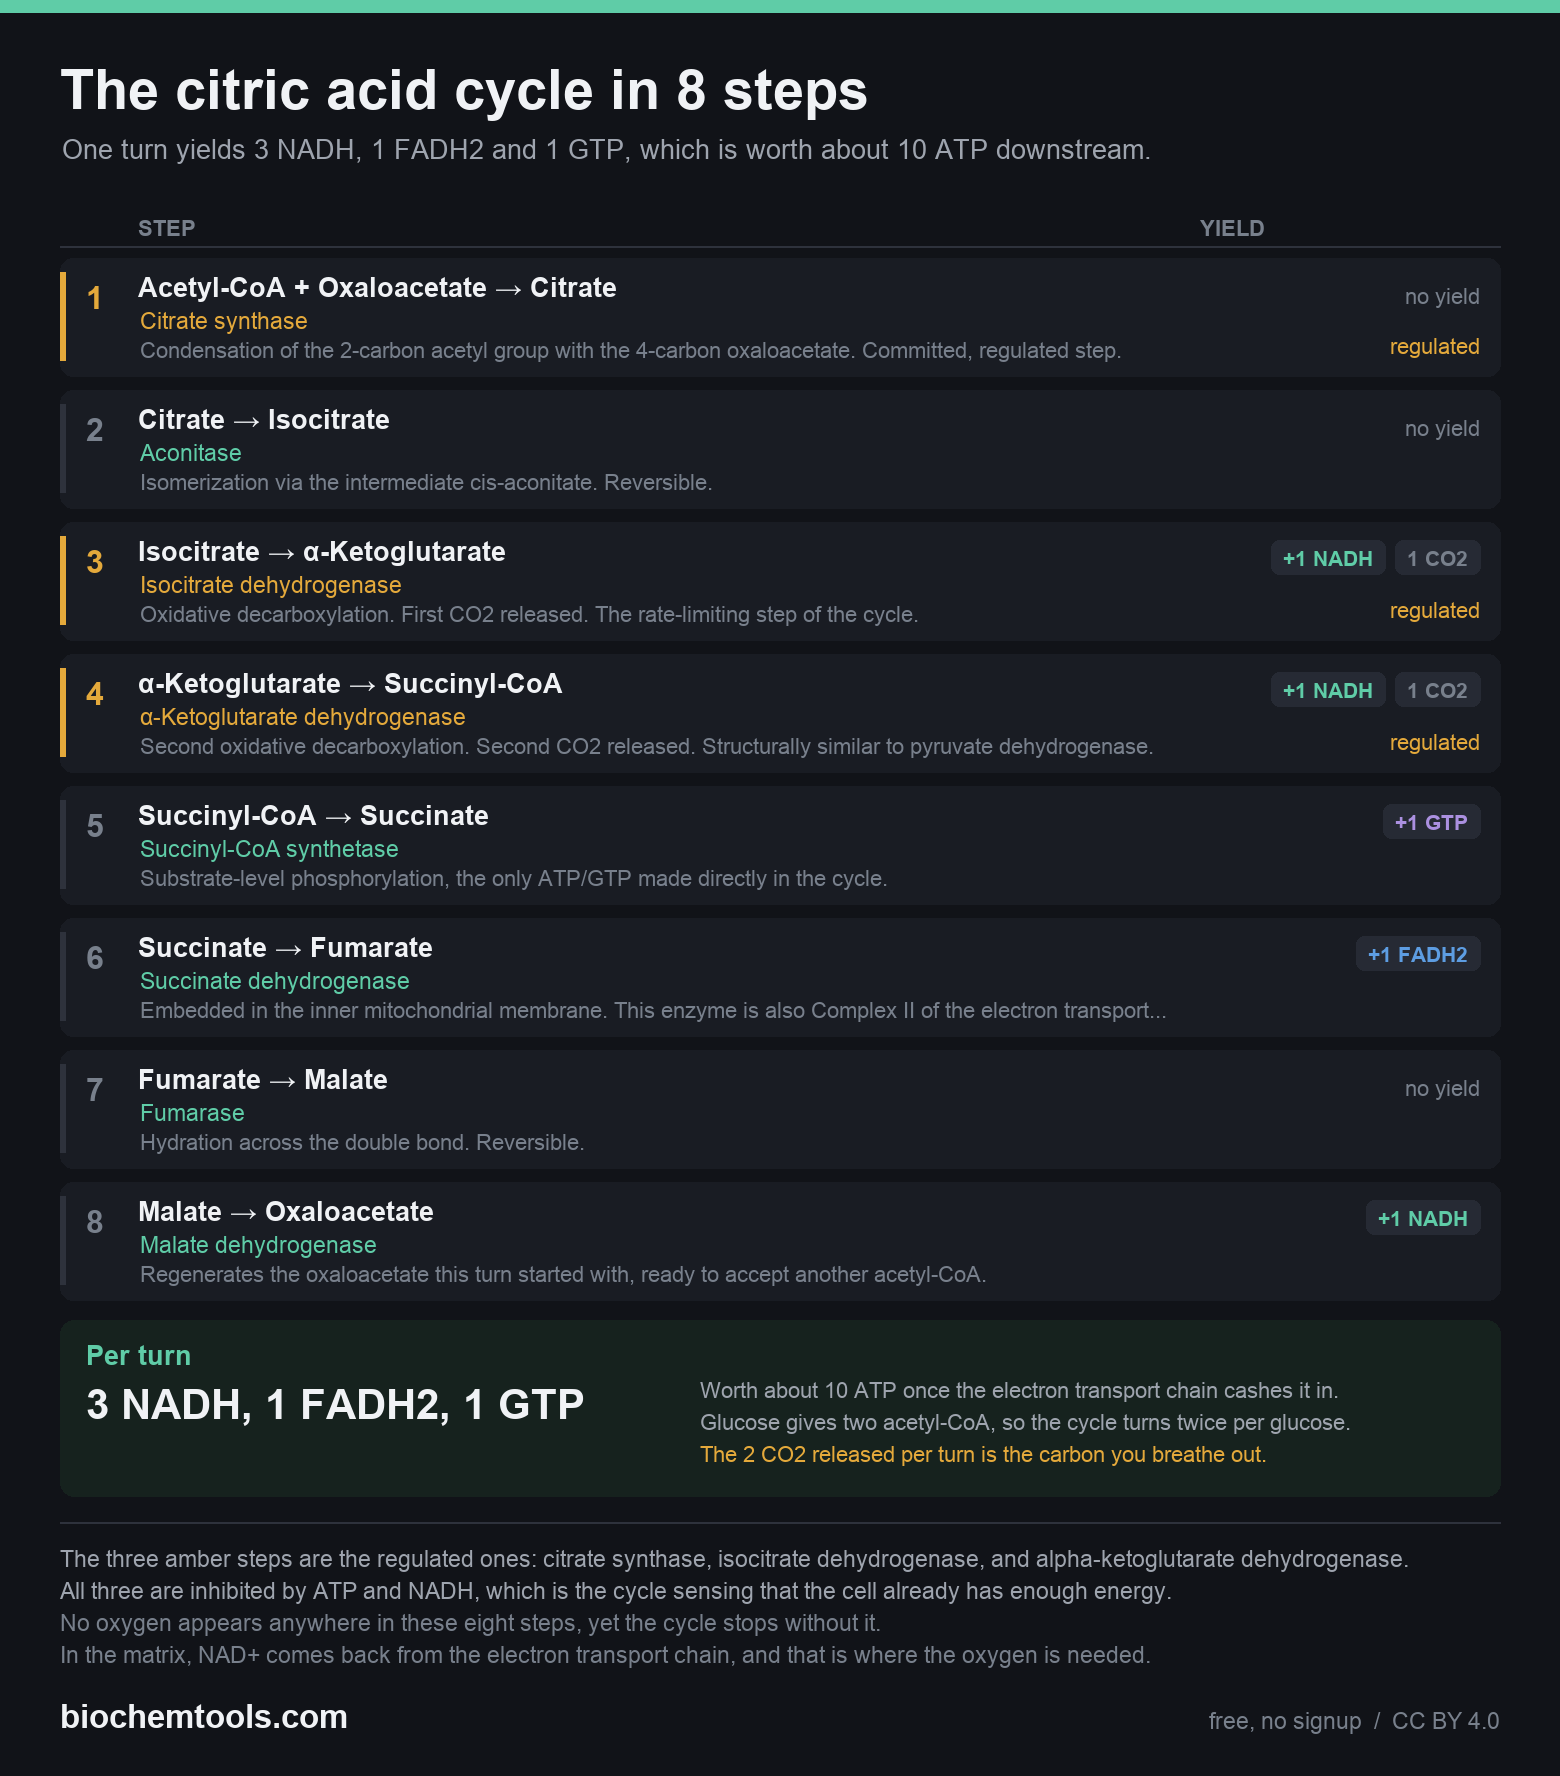
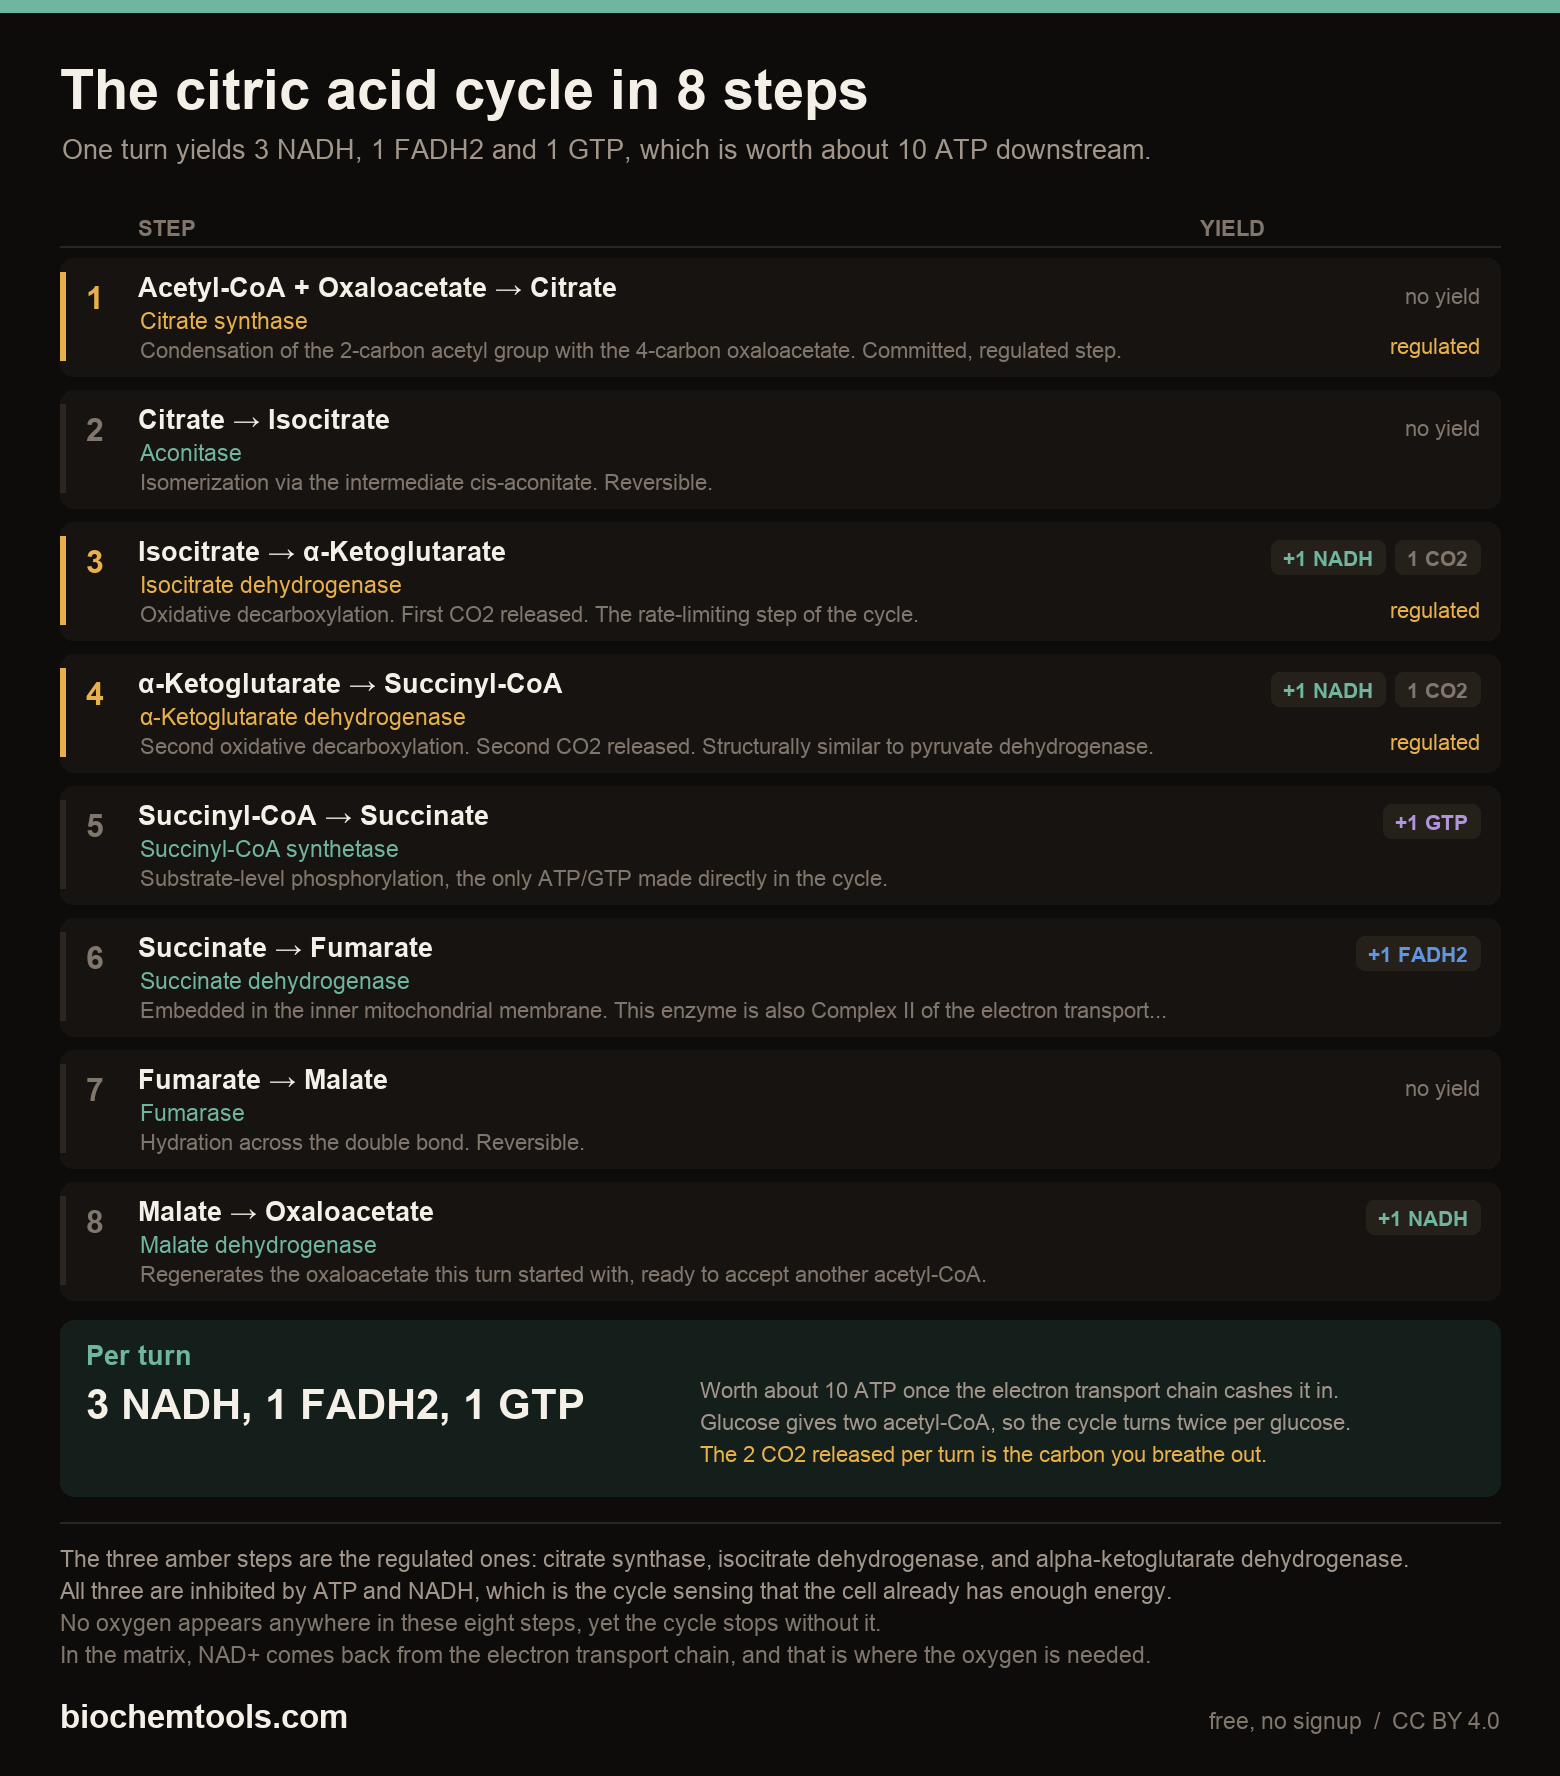
Warm the 12 downloadable charts to match the site
Only the neutrals moved. The hues stay separated because they carry meaning: a
chart that colours acidic and basic side chains alike is broken, not restyled.
Checked every class colour clears 3:1 against the card and that the closest pair
stays apart, which caught teal and blue sitting on the threshold and moved the
blue further out.

Two things did not follow the shared palette and had to be found: the buffer chart
predates lightmode.py and carries its own table, and the amino acid structures are
drawn by RDKit onto their own background, which was still the old card colour and
would have left a visible seam inside every card.

The light print versions are untouched. They were tuned after two readers said the
first pass washed out on paper, and that has nothing to do with the site's colours.

diff --git a/tools/charts/lightmode.py b/tools/charts/lightmode.py
@@ -27,15 +27,18 @@ def theme():
             BAND=(240, 242, 245), CHIP=(225, 229, 236), PANEL=(232, 244, 238),
             WARM=(252, 243, 222),
         )
+    # Warm dark, matched to the site as of 2026-08-24. Only the neutrals moved.
+    # The hues stay separated because they carry meaning: a chart that colours
+    # acidic and basic side chains the same is a broken chart, not a restyled one.
     return False, dict(
-        BG=(17, 19, 24), CARD=(25, 28, 35), LINE=(46, 50, 60),
-        WHITE=(240, 242, 245), GRAY=(158, 164, 174), DIM=(120, 128, 140),
-        GREEN=(95, 204, 167), AMBER=(228, 169, 59), RED=(226, 100, 94),
-        BLUE=(93, 157, 226), PURPLE=(171, 144, 224),
-        NONPOLAR=(140, 149, 170), AROMATIC=(171, 144, 224), POLAR=(95, 204, 167),
-        ACIDIC=(228, 106, 97), BASIC=(93, 157, 226),
-        BAND=(22, 24, 30), CHIP=(38, 42, 52), PANEL=(22, 34, 30),
-        WARM=(30, 28, 22),
+        BG=(14, 12, 10), CARD=(23, 19, 16), LINE=(44, 38, 32),
+        WHITE=(244, 239, 231), GRAY=(162, 150, 138), DIM=(128, 118, 108),
+        GREEN=(111, 181, 159), AMBER=(232, 176, 75), RED=(224, 104, 96),
+        BLUE=(96, 150, 224), PURPLE=(176, 148, 220),
+        NONPOLAR=(150, 142, 130), AROMATIC=(176, 148, 220), POLAR=(111, 181, 159),
+        ACIDIC=(224, 104, 96), BASIC=(96, 150, 224),
+        BAND=(20, 16, 14), CHIP=(38, 32, 27), PANEL=(20, 30, 26),
+        WARM=(32, 26, 18),
     )
 
 

diff --git a/tools/charts/make_buffer_guide.py b/tools/charts/make_buffer_guide.py
@@ -69,12 +69,14 @@ if LIGHT:
     BAND, CHIP = (240, 242, 245), (225, 229, 236)
     BAR_G, BAR_B = (150, 214, 189), (166, 199, 238)
 else:
-    BG, CARD = (17, 19, 24), (25, 28, 35)
-    LINE, WHITE, GRAY, DIM = (46, 50, 60), (240, 242, 245), (158, 164, 174), (120, 128, 140)
-    GREEN, AMBER, BLUE, RED = (95, 204, 167), (228, 169, 59), (93, 157, 226), (226, 100, 94)
-    PURPLE = (171, 144, 224)
-    BAND, CHIP = (22, 24, 30), (38, 42, 52)
-    BAR_G, BAR_B = (28, 52, 45), (38, 46, 56)
+    # Warm dark, matched to the site. Kept in step with lightmode.py by hand
+    # because this chart predates that module and still carries its own table.
+    BG, CARD = (14, 12, 10), (23, 19, 16)
+    LINE, WHITE, GRAY, DIM = (44, 38, 32), (244, 239, 231), (162, 150, 138), (128, 118, 108)
+    GREEN, AMBER, BLUE, RED = (111, 181, 159), (232, 176, 75), (96, 150, 224), (224, 104, 96)
+    PURPLE = (176, 148, 220)
+    BAND, CHIP = (20, 16, 14), (38, 32, 27)
+    BAR_G, BAR_B = (26, 46, 40), (30, 38, 50)
 
 # charge of the buffering ion, the thing that decides whether it sticks to an IEX resin
 CHG_COL = {"-": BLUE, "+": RED, "0": GREEN}

diff --git a/tools/charts/aastructures.py b/tools/charts/aastructures.py
@@ -108,8 +108,8 @@ def check():
 
 def render(light):
     _, P = __import__("lightmode").theme(), None
-    bg = (245, 246, 249) if light else (25, 28, 35)          # CARD in each theme
-    fg = (0.09, 0.11, 0.14) if light else (0.94, 0.95, 0.96)
+    bg = (245, 246, 249) if light else (23, 19, 16)          # CARD in each theme
+    fg = (0.09, 0.11, 0.14) if light else (0.96, 0.94, 0.91)
     sub = os.path.join(OUT, "png_light" if light else "png")
     os.makedirs(sub, exist_ok=True)
     for c3, smi in SMILES.items():
@@ -132,8 +132,8 @@ def render(light):
             o.setSymbolColour(fg)
             o.useBWAtomPalette()
             o.setAtomPalette({-1: fg})
-            o.updateAtomPalette({7: (0.36, 0.62, 0.89), 8: (0.89, 0.39, 0.37),
-                                 16: (0.89, 0.69, 0.23)})
+            o.updateAtomPalette({7: (0.38, 0.59, 0.88), 8: (0.88, 0.41, 0.38),
+                                 16: (0.91, 0.69, 0.29)})
         rdMolDraw2D.PrepareAndDrawMolecule(d, m)
         d.FinishDrawing()
         open(os.path.join(sub, c3 + ".png"), "wb").write(d.GetDrawingText())
